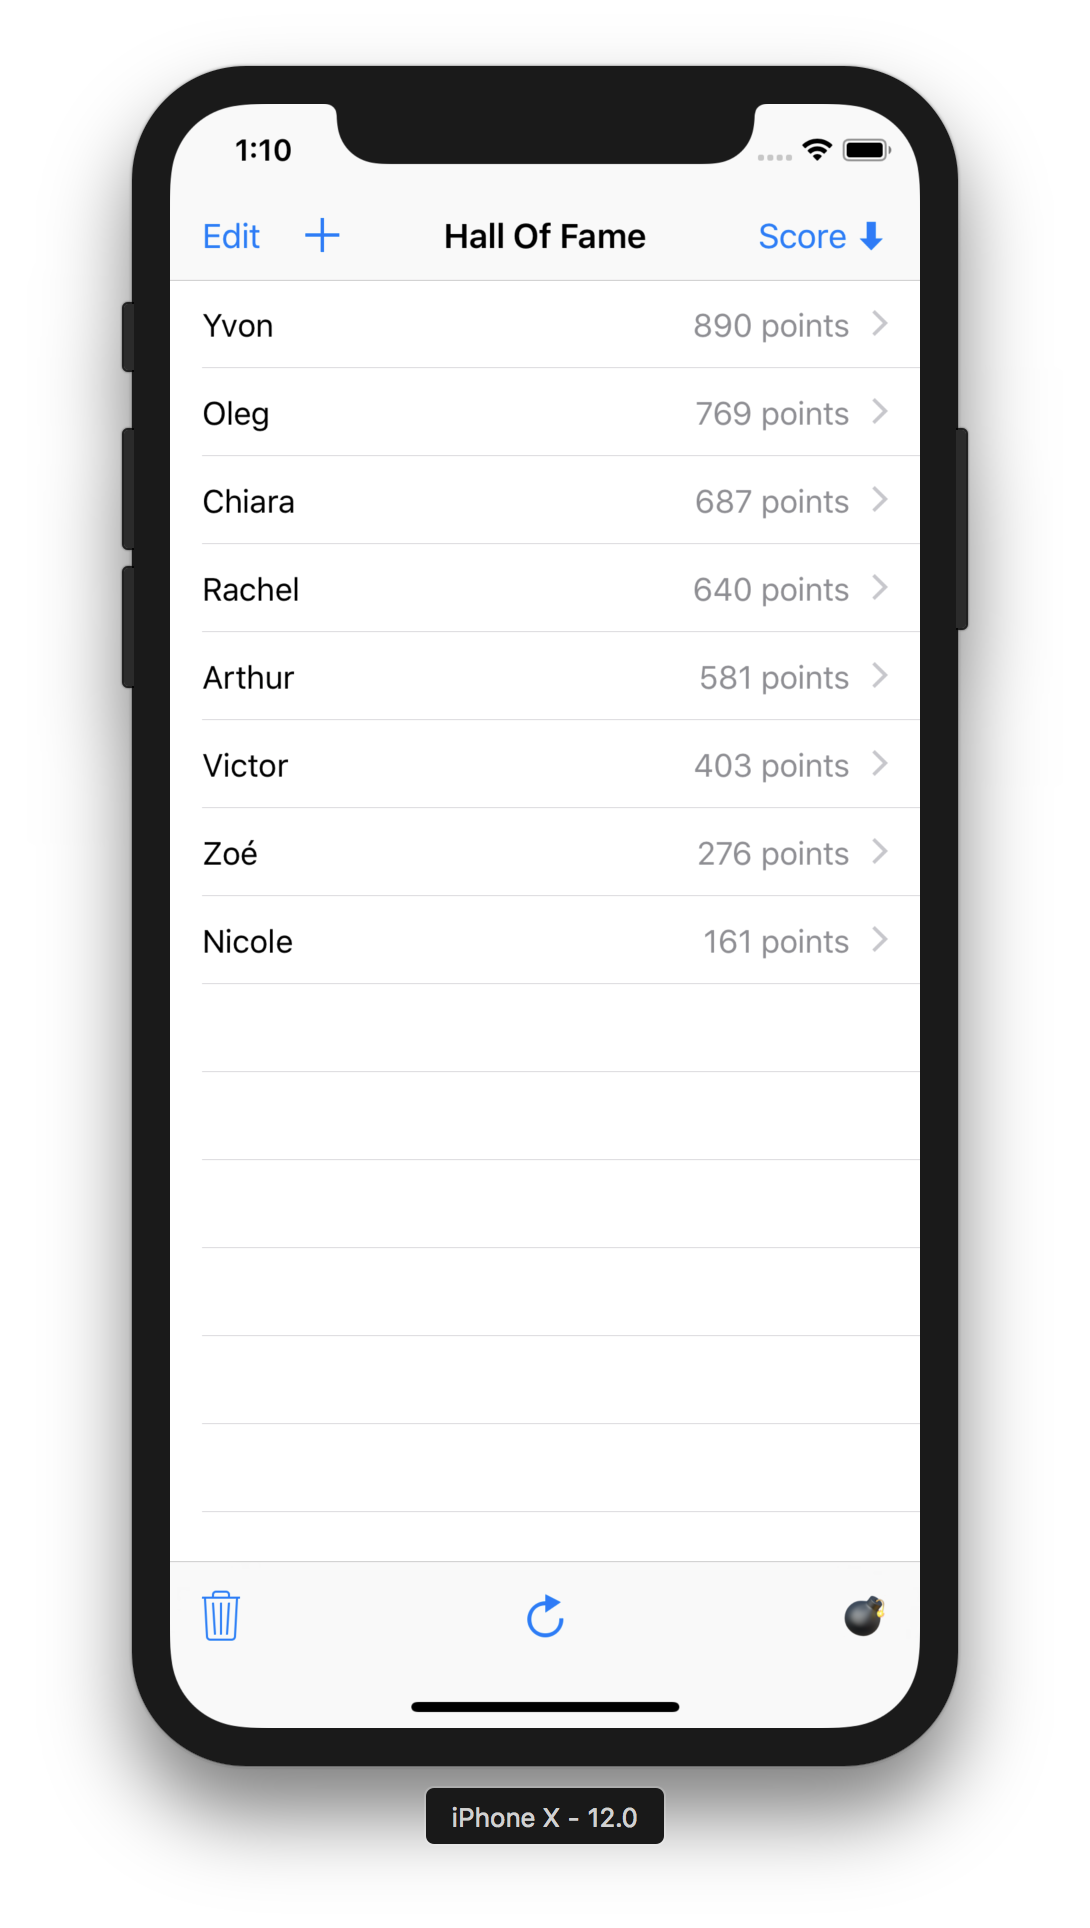
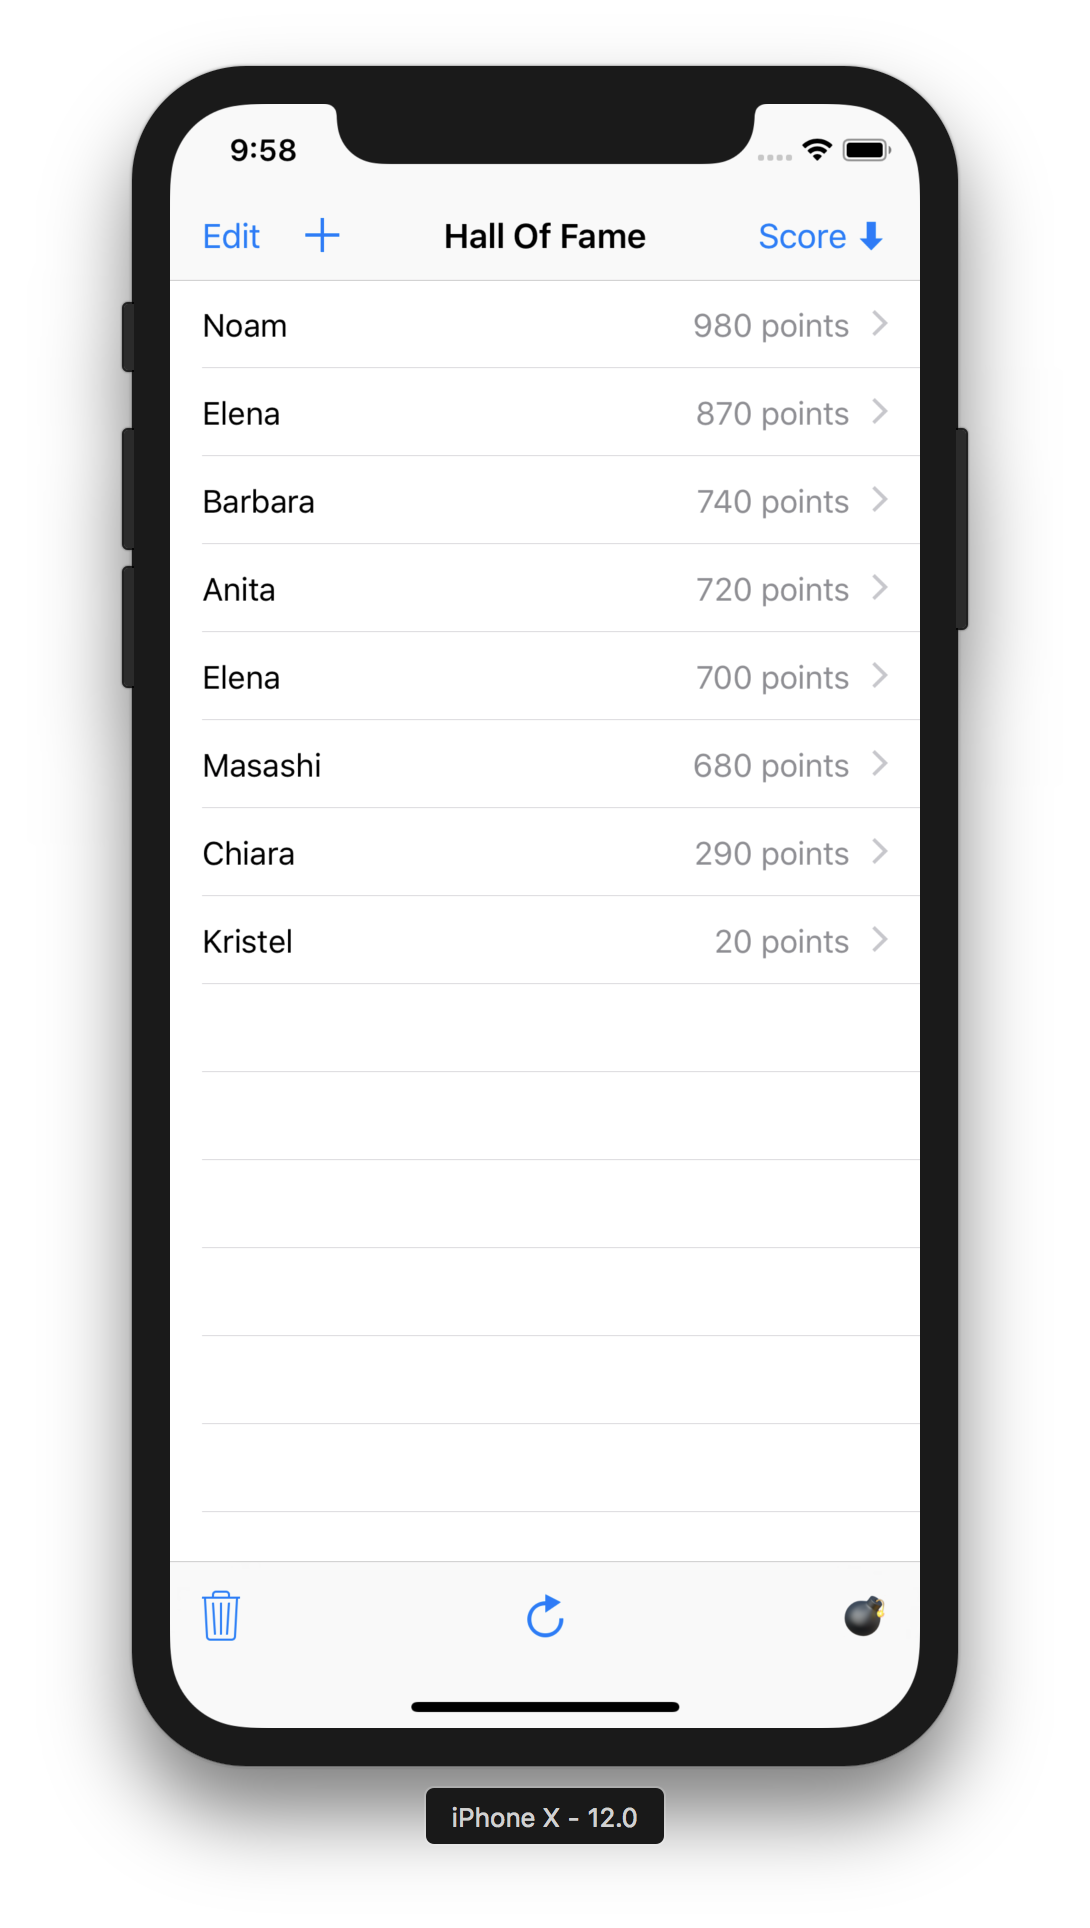
final tweaks

diff --git a/DemoApps/GRDBDemoiOS/GRDBDemoiOS/Player.swift b/DemoApps/GRDBDemoiOS/GRDBDemoiOS/Player.swift
@@ -54,6 +54,6 @@ extension Player {
     }
     
     static func randomScore() -> Int {
-        return Int.random(in: 0...1000)
+        return 10 * Int.random(in: 0...100)
     }
 }

diff --git a/README.md b/README.md
@@ -364,7 +364,7 @@ See the [Demo Application](DemoApps/GRDBDemoiOS) for an example of such integrat
 Demo Application
 ================
 
-The repository comes with an [demo application](DemoApps/GRDBDemoiOS) that shows you:
+The repository comes with a [demo application](DemoApps/GRDBDemoiOS) that shows you:
 
 - how to setup a database in an iOS app
 - how to define a simple [Codable Record](#codable-records)
